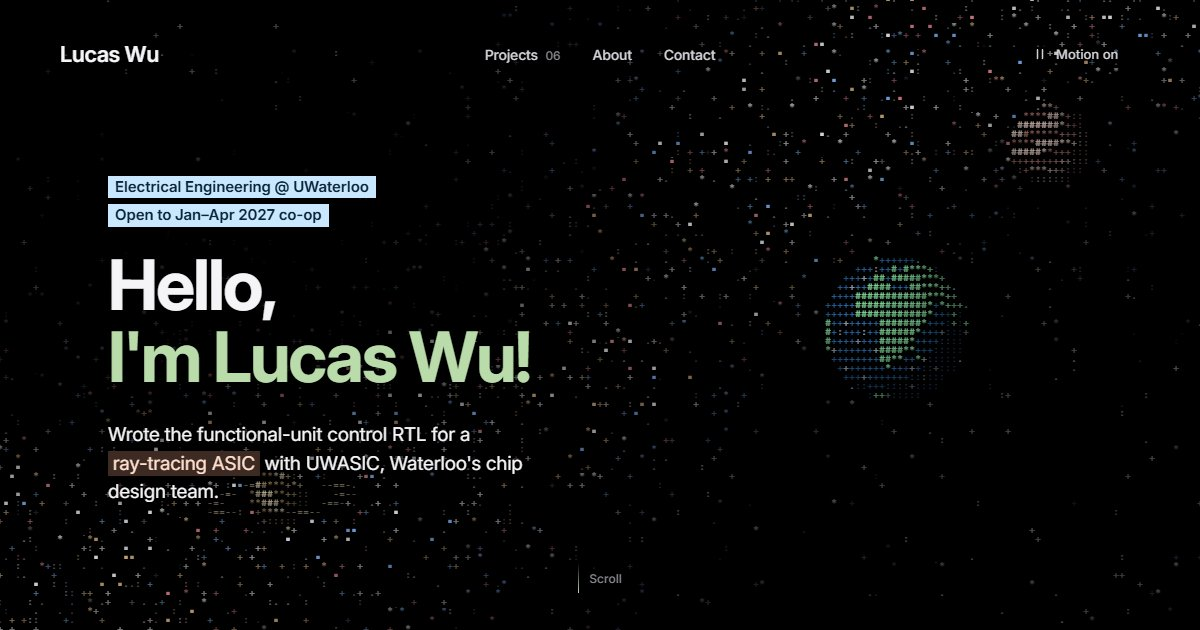
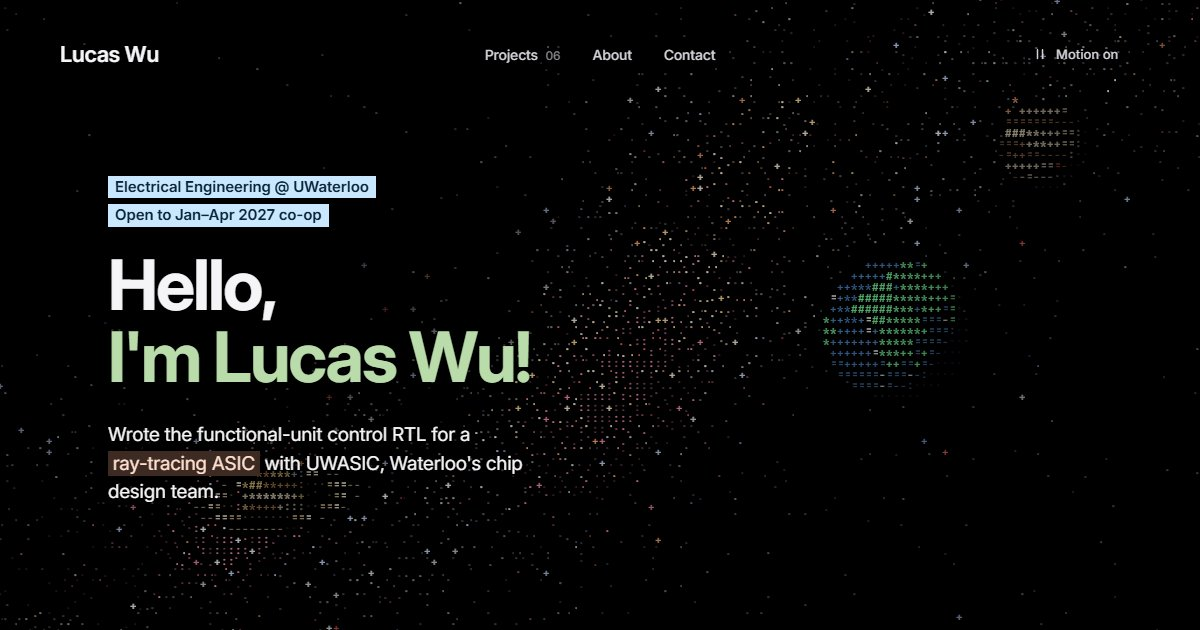
Retake the homepage link preview for the new sky
The preview screenshot now shows the ASCII Milky Way and planets, and
its alt text mentions them.

diff --git a/index.html b/index.html
@@ -13,7 +13,7 @@
   <meta property="og:image" content="https://wulucas.me/assets/og-home.jpg">
   <meta property="og:image:width" content="1200">
   <meta property="og:image:height" content="630">
-  <meta property="og:image:alt" content="The homepage of Lucas Wu’s portfolio: “Hello, I’m Lucas Wu!” beside an Earth drawn in ASCII characters.">
+  <meta property="og:image:alt" content="The homepage of Lucas Wu’s portfolio: “Hello, I’m Lucas Wu!” beside an Earth drawn in ASCII characters, with Saturn and Jupiter, against an ASCII Milky Way.">
   <meta name="twitter:card" content="summary_large_image">
   <link rel="icon" href="/favicon.ico" sizes="32x32">
   <link rel="icon" href="/assets/favicon.svg" type="image/svg+xml">

diff --git a/projects/index.html b/projects/index.html
@@ -14,7 +14,7 @@
   <meta property="og:image" content="https://wulucas.me/assets/og-home.jpg">
   <meta property="og:image:width" content="1200">
   <meta property="og:image:height" content="630">
-  <meta property="og:image:alt" content="The homepage of Lucas Wu’s portfolio: “Hello, I’m Lucas Wu!” beside an Earth drawn in ASCII characters.">
+  <meta property="og:image:alt" content="The homepage of Lucas Wu’s portfolio: “Hello, I’m Lucas Wu!” beside an Earth drawn in ASCII characters, with Saturn and Jupiter, against an ASCII Milky Way.">
   <meta name="twitter:card" content="summary_large_image">
   <link rel="icon" href="/favicon.ico" sizes="32x32">
   <link rel="icon" href="/assets/favicon.svg" type="image/svg+xml">

diff --git a/templates/projects.html b/templates/projects.html
@@ -14,7 +14,7 @@
   <meta property="og:image" content="{{site}}/assets/og-home.jpg">
   <meta property="og:image:width" content="1200">
   <meta property="og:image:height" content="630">
-  <meta property="og:image:alt" content="The homepage of Lucas Wu’s portfolio: “Hello, I’m Lucas Wu!” beside an Earth drawn in ASCII characters.">
+  <meta property="og:image:alt" content="The homepage of Lucas Wu’s portfolio: “Hello, I’m Lucas Wu!” beside an Earth drawn in ASCII characters, with Saturn and Jupiter, against an ASCII Milky Way.">
   <meta name="twitter:card" content="summary_large_image">
   <link rel="icon" href="/favicon.ico" sizes="32x32">
   <link rel="icon" href="/assets/favicon.svg" type="image/svg+xml">
